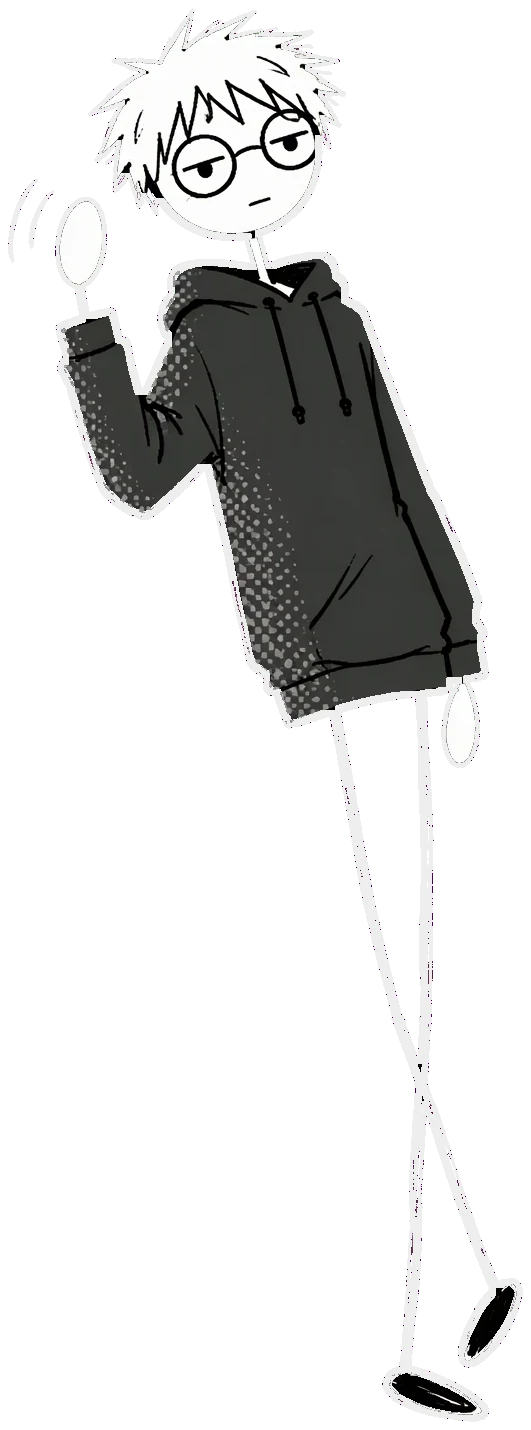
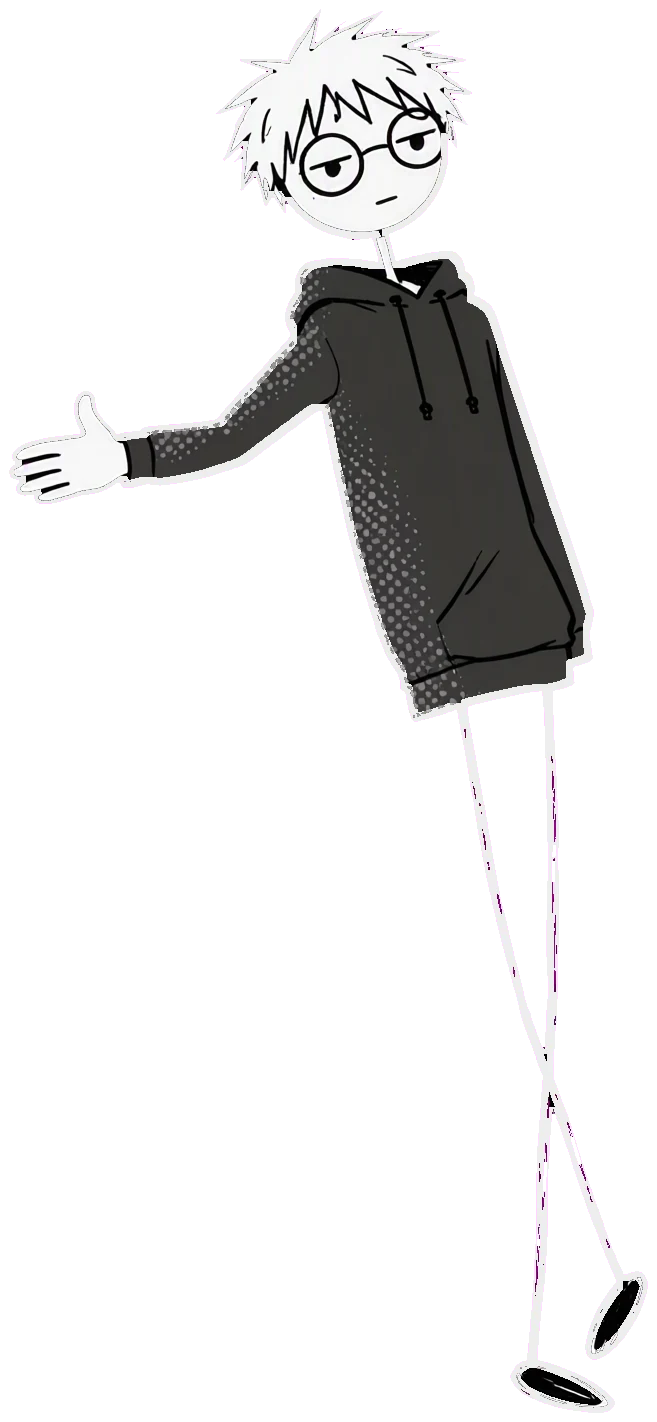
feat: hero 版式升到参照站实测字号，吉祥物改成扶着字
spec 4.3 记的 h1 58px 是把移动断点上的值当成了桌面值 —— 参照站 computed style
实测 clamp(72px, 12vw, 140px) / line-height .94 / letter-spacing -.045em。
字 58px 而人形 496px 高时，人离最近的字 316px（实测），读起来是「一张图放在标题
旁边」而不是「一个人扶着字」，而 112 项测试与 11 项 check 全绿、没有任何东西变红。

- h1 版式、.hero 86vh 居中、.lmask 的 -.09em/.09em 裁切窗、副行 20px/.3em 与
  14px/.14em、下滑提示绝对定位，全部按同一批实测补齐；base.css 加
  html,body{overflow-x:clip}（参照站同一条），窄屏上越栏的鞋尖裁掉而不是长出横滚条
- 吉祥物从 right:0 改成锚在 h1 上，left/height/bottom 全用 em —— em 就是字高，
  所以换字号手仍然落在字尾。式子与两个实测输入写进 hero.css 头注
- 人物图集重画：原姿势的挥手手在画布 y 14%，太高扶不到字；新姿势左臂平伸、
  手掌成为全图最左墨点（新画布 657x1422）。狗挪到胳膊底下那块空白，与腿并排
- person-breathe 的 transform-origin 从照抄参照站的 31% 82% 改成 82% 98%
  （我们画布里的踩地脚；旧值在新姿势下是空白，绕它转等于让学生扫地）
- 新增锚点契约测试；变异取证：把那三行改回 right:0 / -20px / clamp() 该测试即红
- spec：4.3 更正 h1，新增 6.4 吉祥物一节；另记 h3 40px、.col 32px、区块 12vh
  三项实测偏差，等裁定后再动（改任何一项都要重跑 M1 截图矩阵）

diff --git a/src/styles/hero.css b/src/styles/hero.css
@@ -1,10 +1,25 @@
 /* hero.css —— 逐词遮罩（spec 6.2）、副行、下滑提示。Task 7 整文件替换。
    纪律：本文件零字面色值，颜色一律 var(--…)，只有 tokens.css 允许写死（spec 4 节）；
    缓动曲线只有 var(--ease-expo) 一条（spec 4.1）。 */
-.hero { padding-top: 96px; padding-bottom: 64px; }
 
-/* 逐词遮罩：外层裁切，内层从下方 110% 升起 */
-.lmask { display: block; overflow: hidden; }
+/* 参照站 .hero { min-height: 86vh; display: flex; flex-direction: column; justify-content: center }。
+   不是加装饰：h1 升到 clamp(…,140px) 之后，标题块 2.82em 高 + 副行 + 吉祥物垂到块底以下，
+   靠 padding 排不出参照站那种「标题在首屏竖向居中、脚落在标题之下」的构图。
+   min-height 而非 height —— 视口很矮时内容仍然完整可见，不被裁掉。 */
+.hero { display: flex; flex-direction: column; justify-content: center; min-height: 86vh; padding-block: 40px; }
+
+/* 吉祥物是【对标题盒】做绝对定位的装饰，所以定位参照物必须是 h1 本身，
+   不是外层 .hero —— 参照站的 .hero h1 也是 position: relative。
+   挂在 .hero 上时，包含盒把副行和下滑提示一起算进去（实测 469px 高），
+   吉祥物的 bottom 就落在副行以下，读起来是「图在字旁边」而不是「人扶着字」。 */
+.hero h1 { position: relative; }
+
+/* 逐词遮罩：外层裁切，内层从下方 110% 升起。
+   margin/padding 那对 -.09em 是参照站的原样：盒高 = 行高 .94em + .09em，
+   负 margin 把这 .09em 又收回去，于是行距仍是 .94em 而裁切窗向下多出 .09em ——
+   "Cubeyu®" 的 y 尾巴不会被 overflow:hidden 削掉。三行合计 h1 高 3×(1.03−.09)=2.82em，
+   与参照站实测的 395px @ 140px 字一致。 */
+.lmask { display: block; overflow: hidden; margin-bottom: -.09em; padding-bottom: .09em; }
 /* display: block 依赖 base.css 的双语显隐「只隐藏、不强制显示」：
    旧规则 html[lang=en] .i18n-en { display: inline }（0-2-1）会压过本条（0-1-1），
    而 transform 在非替换的 inline 盒上无效 —— 结果是中文行动、英文行不动的语言分裂 bug。 */
@@ -22,31 +37,39 @@
 
 /* sub 行的两个 span 常驻可见（build.js 不挂 i18n-*）：中文名 + 拉丁身份行是两个品牌元素，
    不是同一串的两种译文，所以这里的 flex / gap / baseline 真的作用在两个可见子元素上。 */
-.hero-sub { margin-top: 20px; display: flex; gap: 16px; align-items: baseline; flex-wrap: wrap; }
-.hero-sub .zh { font-size: 16px; color: var(--ink-2); }
+.hero-sub { margin-top: 40px; display: flex; gap: 20px; align-items: baseline; flex-wrap: wrap; }
+/* 参照站 .zh 实测 20px / 500 / .3em。h1 升到 140px 之后，16px 的中文名会掉成图注。 */
+.hero-sub .zh { font-size: 20px; font-weight: 500; letter-spacing: .3em; color: var(--ink-2); }
 /* 全站唯一的一次马克笔黄，落在这条拉丁身份行上 —— 控制器的美学裁定，M1 截图第一现场验收。
    为什么是这里：spec 4.1 把 --mark-bg 定为唯一强调色，而修复前它在样式里零消费者，
-   整页一个强调点都没有（"每屏一处强调" 变成 "每屏零处"）。h1 那三行都是 58px 大字，
-   任何一行整条上底色都会把强调点变成色块，所以选 12px 等宽的小字身份行划一道 ——
-   参照站的签名动作就是这个尺度。
+   整页一个强调点都没有（"每屏一处强调" 变成 "每屏零处"）。h1 那三行是 clamp 到 140px 的大字，
+   任何一行整条上底色都会把强调点变成色块，所以选这条 14px 等宽的小字身份行划一道 ——
+   参照站的签名动作就是这个尺度（它的 .en 实测 14px / .14em）。
    前景配 --mark-fg 而不是 --ink-3：暗色下 --mark-bg 按 spec 4.2 有意降成半透明底纹
-   （降级值只在 tokens.css 里写），半透明黄底配三级灰墨实测只有 2.24:1，低于 AA 对 12px
+   （降级值只在 tokens.css 里写），半透明黄底配三级灰墨实测只有 2.24:1，低于 AA 对 14px
    正文所要求的 4.5:1；--mark-fg 是配对的提亮黄字，实测亮色 13.67:1、暗色 8.65:1
    （合成底色与算法见 Task 7-8 报告 §Fix round 1）。
    注释里不写字面色值：check.js 的 COLOR_LEAK 扫原文不剥注释，写了会把它自己判成违规。
    padding 取 2px 6px 与 base.css 的 .tag 同值，不新发明一档间距。 */
 .hero-sub .en {
   font-family: var(--font-mono);
-  font-size: 12px;
-  letter-spacing: .08em;
+  font-size: 14px;
+  letter-spacing: .14em;
   background: var(--mark-bg);
   color: var(--mark-fg);
   padding: 2px 6px;
 }
+/* 参照站的下滑提示是绝对定位在 hero 底边（bottom: 5vh），不是跟在副行后面的正常流：
+   .hero 现在是 86vh 的居中容器，留在正常流里它会紧贴副行、把首屏下半截空出来。
+   left: 0 落在 .col 的内边距上（参照站同一条也是 left: 0），比正文缩进 20px —— 与它
+   「贴着页面底边」的角色一致。 */
 .hero-scroll {
-  margin-top: 56px;
+  position: absolute;
+  bottom: 5vh;
+  left: 0;
   font-family: var(--font-mono);
-  font-size: 12px;
+  font-size: 14px;
+  letter-spacing: .3em;
   color: var(--ink-3);
   animation: drift 2.6s var(--ease-expo) infinite alternate;
 }
@@ -65,15 +88,27 @@
    位移/朝向由 src/js/mascot.js 写 background-position，帧序说明在该文件顶部。 */
 .hero { position: relative; }
 
-/* 尺寸按【高度】定，不按宽度：人物是 521x1471（长宽比 0.35，腿长得离谱），
-   若照参照站那样用 width: min(36vw,330px) 会撑出 932px 高、把整个吉祥物顶到
-   视口上方 371px 处（实测）。参照站那张是 1086x1448（0.75），同宽只有 440 高 ——
-   它的定尺寸方式不能照抄。 */
+/* 尺寸与锚点都按【em】走，em 就是 h1 的字高（.hero-illo 是 h1 的后代，字号继承自它）。
+   参照站的同一条是 `left: calc(2.94em - min(6.5vw, 26px)); bottom: -.87em; width: min(36vw, 330px)`，
+   那个 2.94em 不是魔法数：它最长的一行 "makes"/"things." 实测 2.86em，减去图集内部 7.5% 的
+   左侧空白（它那张画布连狗一起排布，人物只占左边 40%），手尖正好落在字尾上。
+   锚在【字】上而不是栏的右边，才是「一个人扶着字」而不是「一张图放在标题旁边」的原因。
+
+   我们的数字按同一套推导来（图集墨点位置逐行扫 alpha 得出，文字墨盒用 canvas measureText
+   的 font/actualBoundingBox 反推基线，均 @1445 视口 / 140px 字实测）：
+     画布 657x1422（宽高比 .462）：最左墨点 = 指尖，在 x 1.4%；整只手的墨占 y 27.5%–35.4%。
+     "small tools."：基线 567、x 高度顶 493、墨右约 992（advance 右缘 1005 减去 -.045em
+     记在最后一个字符之后的 6.3px，再减去句点自身的右边距）。
+     盒高 2.3em=322px → 盒宽 1.063em=149px；手掌底（y .354）要落在 x 高度顶 493 →
+     盒顶 = 493 − .354×322 = 379，盒底 = 701，即比标题块底边（583）低 .85em（参照站 .87em）；
+     指尖 = 盒左 + .014×149 取 935（正落在 "s" 上方）→ 盒左 = 933 = 4.34em。
+   相撞检查：腿在画布 x 58% 以右 → 绝对 ≥1019，在墨右 992 之外；小臂整条在 y ≤486，
+   也就是从字【上方】搭过去，不盖住任何字母。 */
 .hero-illo {
   position: absolute;
-  right: 0;
-  bottom: -20px;
-  height: clamp(320px, 60vh, 560px);
+  left: 4.34em;
+  bottom: -.85em;
+  height: 2.3em;
   width: auto;
   pointer-events: none;
   z-index: 1;
@@ -89,7 +124,7 @@
   to { opacity: 1; clip-path: inset(0); transform: translateY(0); }
 }
 
-.hero-mascot { position: relative; height: 100%; width: auto; aspect-ratio: 531 / 1430; display: block; }
+.hero-mascot { position: relative; height: 100%; width: auto; aspect-ratio: 657 / 1422; display: block; }
 
 .hero-person {
   position: absolute;
@@ -99,7 +134,10 @@
   background-repeat: no-repeat;
   background-size: contain;
   background-position: 50% 100%;
-  transform-origin: 31% 82%;
+  /* 支点落在【踩地的那只脚】上（画布 x 82% / y 98%，实测人物墨底 .993）。
+     上一版照抄参照站的 31% 82%，那是它自己画布里的脚位 —— 我们换了姿势后，
+     31% 82% 已经落在胳膊底下的空 magenta 里，绕它转等于让整条腿扫地。 */
+  transform-origin: 82% 98%;
   /* 呼吸是无循环动效，按 spec 4.1 的「除循环 pulse 外」例外走 ease-in-out：
      expo 曲线用在无限往复上会让回程变成硬弹，反而不像呼吸。 */
   animation: person-breathe 5.4s ease-in-out infinite;
@@ -110,16 +148,15 @@
 }
 
 .hero-dog {
-  /* 狗坐在【脚边】，不是坐在腿上。人物的腿大约从 58% 延伸到 100%，
-     原先 top:56% / left:34% / width:62% 让狗正好盖住整条腿（实测截图里像狗长了火柴腿）。
-     挪到右下、只与腿轻微相邻，两只才读得出是「一个人和一只狗」。 */
+  /* 新姿势的画布是空的：左臂伸出去扶字，胳膊底下到脚边这一整块（x 10%–70%、y 55%–100%）
+     没有墨，狗正好坐在里面。人物的两条腿在新图里靠右（y 55% 以下时 x 71%–93%），
+     狗占 x 22%–74%，两只并排不相交 —— 上一版狗压在腿正中，截图里像狗长了火柴腿。
+     狗的底边按脚落地算：帧格宽高比 216/300，宽 52% 盒宽 → 高 33% 盒高，
+     top 66% + 33% ≈ 99%，与人物墨底 .993 同一条地平线。 */
   position: absolute;
-  /* 人物的两条腿大约在 x 42%-58%、y 58%-100%。狗要坐在腿的【外侧】并排，
-     而不是压在腿正中 —— 上一版 left:46% 的结果是狗盖住整条腿，
-     截图里看起来像狗长了火柴腿。 */
   top: 66%;
-  left: 54%;
-  width: 54%;
+  left: 22%;
+  width: 52%;
   aspect-ratio: 216 / 300;
   display: block;
   background-image: url("/assets/images/hero-dog.webp");
@@ -136,8 +173,14 @@
 [data-theme="dark"] .hero-person { background-image: url("/assets/images/hero-person-dark.webp"); }
 [data-theme="dark"] .hero-dog { background-image: url("/assets/images/hero-dog-dark.webp"); }
 
-@media (max-width: 640px) {
-  .hero-illo { width: min(44vw, 172px); bottom: -12px; }
+/* 窄屏只降【高度】，不降 left：手尖的位置 = left + 画布内 1.4% 盒宽，
+   与盒高无关，所以缩高度不会让「扶着字」变成「悬在字旁边」——
+   它只把腿和盒子的右边缘收进视口，免得被 base.css 的 overflow-x: clip 切掉鞋尖。
+   bottom 必须跟着高度重算，否则手掌会压进 x 高度里盖住字母：
+   手掌底在画布 y .354、x 高度顶在标题块顶以下 2.179em、块高 2.82em，
+   于是 bottom = 0.646 × height − 0.641em（桌面 2.3em → −.85em，与此处 1.55em → −.36em 同一条式子）。 */
+@media (max-width: 480px) {
+  .hero-illo { height: 1.55em; bottom: -.36em; }
 }
 
 /* reduced-motion：吉祥物必须【仍然在场】，只是不动。

diff --git a/src/styles/base.css b/src/styles/base.css
@@ -16,8 +16,22 @@ button, input, textarea { font: inherit; }
 /* 窄栏：spec 4.1 --col = 820px */
 .col { max-width: var(--col); margin-inline: auto; padding-inline: 20px; }
 
-/* 排版阶梯（实测 oiloil） */
-h1 { font-size: 58px; font-weight: 700; line-height: 1.04; margin: 0; letter-spacing: -.02em; }
+/* 参照站同一条（body, html { max-width: 100%; overflow-x: clip }）。
+   hero 的吉祥物按 em 锚在标题上，盒子的右边缘会越过 .col 的内容盒几个像素，
+   窄视口上更明显；clip 让它裁在视口边而不是长出横向滚动条。
+   用 clip 不用 hidden：hidden 会把这里变成滚动容器，滚动条与 scrollLeft 都会出来。 */
+html, body { max-width: 100%; overflow-x: clip; }
+
+/* 排版阶梯（实测 oiloil）
+   h1 这一档在 2026-11-03 的复核里被更正：spec 4.1 原先记的 58px 是把移动断点上的值
+   当成了桌面值，参照站桌面实测是 clamp(72px, 12vw, 140px) / line-height .94 /
+   letter-spacing -.045em（computed style 140px、131.6px、-6.3px @ 1444 视口）。
+   下界取 64px 而不是它的 72px：我们最长的一行 "small tools." 实测 4.86em，
+   72px 时 350px 宽，在 390px 视口上只剩 0px 余量（我们的 .col 内边距 20px），
+   64px 留 39px。360px 以下再降一档，避免 320px 视口横向溢出。
+   这一档不是审美微调而是几何前提：hero 吉祥物按 em 锚在标题上（见 hero.css），
+   字是 58px 而人是 496px 高时，两者不可能读成「一个人扶着字」。 */
+h1 { font-size: clamp(64px, 12vw, 140px); font-weight: 700; line-height: .94; letter-spacing: -.045em; margin: 0; }
 h2 { font-size: 16px; font-weight: 400; margin: 0; }
 h3 { font-size: 30px; font-weight: 800; margin: 0; letter-spacing: -.01em; }
 
@@ -70,9 +84,14 @@ html:lang(en) .i18n-zh { display: none; }
 /* 区块节奏 */
 section { padding-block: 72px; }
 @media (max-width: 640px) {
-  h1 { font-size: 40px; }
   h3 { font-size: 24px; }
   section { padding-block: 48px; }
+}
+/* h1 不在这里降档：clamp 的下界已经接管（见上面的排版阶梯），
+   再写一条 h1 { font-size: … } 只会因为同特异性、排在后面而赢掉 clamp，
+   把桌面值也一起压下去。极窄视口单独降一档，保住 "small tools." 不溢出。 */
+@media (max-width: 360px) {
+  h1 { font-size: 52px; }
 }
 
 /* 导航条：等宽小字，左右两端对齐。语言切换与 GitHub 链接都在右侧一组 */

diff --git a/test/mascot.test.js b/test/mascot.test.js
@@ -46,6 +46,22 @@ test('mascot does not animate for reduced motion or touch', () => {
   assert.match(js, /prefers-reduced-motion[\s\S]{0,120}return/, 'reduced-motion 必须不追踪，狗停在静止帧');
 });
 
+// 锚点契约。上一版写的是 `right: 0; height: clamp(320px, 60vh, 560px)`，人形浮在 820px
+// 栏的右边缘、离最近的字 316px（实测），读起来是「一张图放在标题旁边」而不是
+// 「一个人扶着字」—— 而 112 项测试与 11 项 check 全绿，没有任何东西会因此变红。
+// 参照站的写法把这件事钉在 CSS 里：left/bottom/height 全是 em，em 就是 h1 的字高，
+// 所以字放大时手仍然落在字尾，缩小时也不会脱开。锚点生效的前提是包含盒是 h1。
+test('hero illustration is anchored to the headline in em, not to the column edge', () => {
+  const css = readFileSync('src/styles/hero.css', 'utf8');
+  const illo = /\.hero-illo\s*\{([^}]*)\}/s.exec(css)?.[1] ?? '';
+  assert.match(illo, /left:\s*[\d.]+em/, '吉祥物必须按 em 锚在标题的字宽上，换字号才不脱开');
+  assert.match(illo, /height:\s*[\d.]+em/, '高度也要按 em，人才跟着标题一起缩放');
+  assert.match(illo, /bottom:\s*-[\d.]+em/, '脚的位置也要按 em，才始终垂在标题块底边以下同样多');
+  assert.doesNotMatch(illo, /right:\s*\.?\d/, '不得改用 right 定位：那锚的是栏的右边缘，与标题长度无关');
+  assert.match(css, /\.hero h1\s*\{[^}]*position:\s*relative/,
+    'h1 必须是定位参照物 —— 挂在 .hero 上时包含盒把副行与下滑提示一起算进去，脚会落到副行以下');
+});
+
 // 开屏"升起"的起点必须存在。第一版只抄了参照站关键帧里的 translateY(0)，
 // 没抄它基础规则里的 translateY(12%) —— 起点终点都是 0，于是只剩擦开、没有升起，
 // 而页面看起来完全正常：clip-path 在动、opacity 在动，没有任何东西报错。

diff --git a/docs/superpowers/specs/2026-11-03-cubeyu-home-design.md b/docs/superpowers/specs/2026-11-03-cubeyu-home-design.md
@@ -148,11 +148,18 @@ cubeyu-home/
 
 | 层级 | 字号 / 字重 |
 |---|---|
-| H1（hero） | `58px / 700` |
-| H3（卡标题） | `30px / 800` |
+| H1（hero） | `clamp(64px, 12vw, 140px) / 700`，`line-height: .94`，`letter-spacing: -.045em` |
+| H3（卡标题） | `30px / 800` **（见下方更正记录：参照站实测 40px）** |
 | H2（区块标题） | `16px / 400` |
 | eyebrow（区块小标） | `12px / 650`，等宽，`中文 / ENGLISH` 形式 |
 | body | `16px / 400`，`line-height: 24px` |
+
+**H1 的 2026-11-03 更正**：本表原先记的是 `58px / 1.04`，那是把移动断点上的值当成了桌面值。
+在 1444 视口重读参照站的 computed style：`.hero h1 { font-size: clamp(72px, 12vw, 140px); line-height: .94; letter-spacing: -.045em }` → 实际 140px / 131.6px / -6.3px。
+这条不是审美微调，而是 6.4 节吉祥物几何的前提：字 58px 而人形 496px 高时，人不可能"扶着字"。
+下界取 64px 而非参照站的 72px：我们最长的一行 `small tools.` 实测 4.86em，72px 时 350px 宽，在 390px 视口上余量为 0（我们的 `.col` 内边距 20px），64px 留 39px；≤360px 再单独降到 52px。
+
+**仍未跟上的三项（同一批实测，等用户裁定后再改，不在本轮动）**：参照站 `h3` 是 `40px / 800 / -1.2px`（我们是 30px）、`.col` 内边距是 `32px`（我们是 20px）、区块纵向节奏是 `12vh`（我们是 72px/48px），正文 `p` 是 `15px / 29.25px`。这三项影响的是作品区而不是首屏，改任何一项都要重跑 M1 截图矩阵。
 
 圆角纪律：卡片与区块用 `2px`–`8px`，只有 pill 与圆点用 `999px`/`50%`。**不使用 MoeHome 那种大圆角玻璃卡片。**
 
@@ -248,6 +255,25 @@ CSS：`html[lang="zh"] .i18n-en { display: none }`，反之同理。默认 `lang
 4. 补真正的 `destroy()` —— 原实现只有 `visibilitychange` 暂停，没有卸载路径；页脚手动关动效时必须能移除元素并停掉 rAF。
 
 `cursor: none` 会让用户找不到鼠标，因此以上任一条不满足时保留原生光标。
+
+### 6.4 hero 吉祥物（人物 + 狗）
+
+参照站把人物与狗做进 `.hero-illo` 一个盒子里，**盒子的位置全部用 `em` 表达，而 `em` 就是 h1 的字高**：
+`left: calc(2.94em - min(6.5vw, 26px)); bottom: -.87em; width: min(36vw, 330px)`。
+那个 2.94em 不是魔法数 —— 它最长的一行 `makes`/`things.` 实测 2.86em，再减去它自己画布内部 7.5% 的左侧空白，手尖正好落在字尾上。
+**锚在字上而不是栏的右边，才是"一个人扶着字"而不是"一张图放在标题旁边"的原因。**
+（我们第一版写的是 `right: 0; height: clamp(320px, 60vh, 560px)`，人形离最近的字 316px，而 112 项测试与 11 项 check 全绿 —— 所以这条几何现在由 `test/mascot.test.js` 的锚点契约钉住：`left`/`height`/`bottom` 必须是 em，且不得出现 `right`，且 `.hero h1` 必须 `position: relative`。）
+
+我们的锚点按同一套式子推导，两个输入都要实测：
+图集逐行扫 alpha 得到手掌在画布 `y 27.5%–35.4%`、指尖在 `x 1.4%`；
+文字墨盒用 canvas `measureText` 的 `fontBoundingBoxAscent` 反推基线、`actualBoundingBoxAscent` 定 x 高度顶。
+于是 `bottom = 0.646 × height − 0.641em`（桌面 height 2.3em → bottom -.85em；≤480px height 1.55em → bottom -.36em），
+`left` 由"指尖落在最长一行 `small tools.` 的 x 高度顶上方"定出 4.34em。
+换文案、换字号、换图集时这两个数都要重算 —— 式子和测量方法记在 `src/styles/hero.css` 的头注里。
+
+人物与狗都用 `background-image` 而不是 `<img>`：纯装饰（`aria-hidden` 才诚实）、暗色只改一条声明、
+浏览器只下载当前主题真正引用的那张。狗是 8 帧朝向图集，`mascot.js` 按光标在 hero 内的水平位置选帧；
+触屏与 `prefers-reduced-motion` 完全不绑监听，狗停在抬头帧。
 
 ---
 
